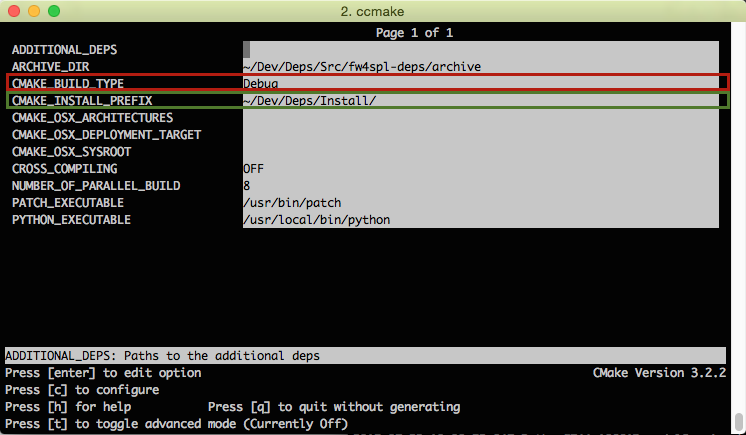
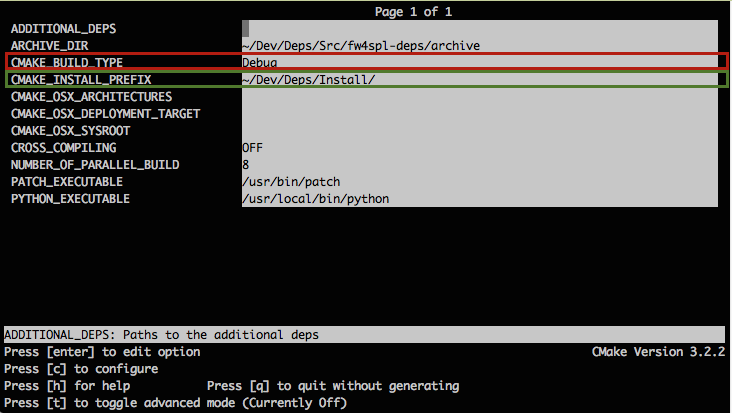
Updated Linux installation doc, also cropped screenshots
--HG--
branch : fw4spl_0.10.2

diff --git a/Installation/src/LinuxInstall.rst b/Installation/src/LinuxInstall.rst
@@ -6,123 +6,310 @@ Prerequisites for Linux users
 
 If not already installed:
 
-1. Install `Mercurial <http://mercurial.selenic.com/wiki/>`_  (apt-get install mercurial)
+1. Install `git <https://git-scm.com/>`_
 
-2. Optionally you can install `TortoiseHg <http://tortoisehg.bitbucket.org/>`_ 
+3. Install `gcc <https://gcc.gnu.org/>`_ The minimal version required is 4.8 or `clang <http://clang.llvm.org/>`_ The minimal version required is 3.5
 
-3. Install `gcc <https://gcc.gnu.org/>`_ (apt-get install gcc)
+4. Install `Python 2.7 <https://www.python.org/downloads/>`_
 
-4. Install `clang <http://clang.llvm.org/>`_ (apt-get install clang)
+5. Install `CMake <http://www.cmake.org/download/>`_ The minimal version required is 3.0
 
-4. Install `Python 2.7 <https://www.python.org/downloads/>`_ (apt-get install python2.7)
+6. Install `Ninja <https://martine.github.io/ninja/>`_
 
-5. Install `CMake <http://www.cmake.org/download/>`_ (apt-get install cmake)
+Depending on which linux distribution you use, for example on Debian you can do:
 
-6. Install `ninja <https://github.com/martine/ninja>`_ (apt-get install ninja-build)
+.. code:: bash
 
-
+    $ apt-get install build-essential ninja-build python2.7 git
 
 Qt is an external library used in FW4SPL. For the successful compilation of Qt with FW4SPL, please see the following requirements:
 
 - http://wiki.qt.io/Building_Qt_5_from_Git
 
 
-
 FW4SPL installation
 -------------------------
 
-FW4SPL works with data separation for source, build and install data. 
+FW4SPL works with data separation for source, build and install data.
 To prepare the development environment:
 
-- Create a development folder (Dev)
+- Create your "Dev" directory
 
-- Create a build folder (Dev\\Build)
+.. code:: bash
 
-- Create a source folder (Dev\\Src)
+    $ mkdir Dev
 
-- Create a install folder (Dev\\Install)
+- Create into "Dev" the source, build and install directories
+
+.. code:: bash
+
+    $ mkdir Dev/Src Dev/Build Dev/Install
+
+- Create sub-folders to separate Debug and Release compilations
+
+.. code:: bash
+
+    $ mkdir Dev/Build/Debug Dev/Build/Release Dev/Install/Debug Dev/Install/Release
 
 To prepare the third party environment:
 
-- Create a third party folder (BinPkgs)
+- Create a third party folder (Deps)
 
-- Create a build folder (BinPkgs\\Build)
+.. code:: bash
 
-- Create a source folder (BinPkgs\\Src)
+    $ mkdir Deps
 
-- Create a install folder (BinPkgs\\Install)
+- Create into "Deps" the source, build and install directories
 
-.. .. image:: Directories.png
-..   :scale: 50 %
+.. code:: bash
+
+    $ mkdir Deps/Src Deps/Build Deps/Install
+
+- Create sub-folders to separate Debug and Release compilations
+
+.. code:: bash
+
+    $ mkdir Deps/Build/Debug Deps/Build/Release Deps/Install/Debug Deps/Install/Release
+
+
+.. _build_tools:
+
+Build tools
+~~~~~~~~~~~~
+
+FW4SPL is a CMake project. That means, for each build target there is a CMakeLists that provides build parameters.
+To configure you project you can use the ``cmake`` command from the build folder with the sources as arguments:
+
+.. code:: bash
+
+    $ cd Dev/Build/Debug
+    $ ccmake ../../Src/fw4spl
+
+if you want to use **Ninja** as build to tools, use the option ``-G Ninja``, as following:
+
+.. code:: bash
+
+    $ ccmake -G Ninja ../../Src/fw4spl
+
+It is the same process for Deps and FW4SPL sources. It is recommended to use make to compile the deps.
 
 Dependencies
-~~~~~~~~~~~~~~~~~
+~~~~~~~~~~~~~~
 
-For the third party libraries the three following repositories have to be `cloned <http://git-scm.com/book/en/v2/Git-Basics-Getting-a-Git-Repository#Cloning-an-Existing-Repository>`_ in the (BinPkgs) source folder:
+- Clone the repository into your source directory of Deps
 
-- `fw4spl-deps <https://github.com/fw4spl-org/fw4spl-deps.git>`_
+.. code:: bash
 
-- `fw4spl-ar-deps <https://github.com/fw4spl-org/fw4spl-ar-deps.git>`_
+    $ cd Deps/Src
+    $ git clone https://github.com/fw4spl-org/fw4spl-deps.git fw4spl-deps
 
-- `fw4spl-ext-deps <https://github.com/fw4spl-org/fw4spl-ext-deps.git>`_
+- Get into fw4spl-deps folder and update to the latest stable version
 
-Update the cloned repositories to the used version. Call the cmake-gui or change the cmake arguments with the console from the BinPkgs build folder location. 
-Choose jom or nmake as build tool for cmake. The following arguments have to be changed:
+.. code:: bash
+    $ cd fw4spl-deps
+    $ git checkout fw4spl_0.10.2.1
 
-- *ADDITIONAL_PROJECTS*: set the source location of fw4spl-ar-deps and fw4spl-ext-deps
+- Get into your Build directory (Debug or Release) : here an example if you want to compile in DEBUG
+
+.. code:: bash
+
+    $ cd Deps/Build/Debug
+
+- Call ccmake and point to the sources
+
+.. code:: bash
+
+    $ ccmake ../../Src/fw4spl-deps
+
+
+To build the dependencies, you must configure the project with cmake into the Build folder
+
+.. code:: bash
+
+    $ cd ~/Dev/Deps/Build
+    $ cmake ../Src/fw4spl-deps -DCMAKE_INSTALL_PREFIX=../Install -DCMAKE_BUILD_TYPE=Debug
+
+Or open cmake gui editor, see :ref:`build_tools` instructions.
+
+.. code:: bash
+
+    $ ccmake ../Src/fw4spl-deps
+
+Some CMake variables have to be change:
 
 - *CMAKE_INSTALL_PREFIX*: set the install location.
 
-Configure and generate the code. Compile the FW4SPL dependencies with jom or nmake in the console.
+- *CMAKE_BUILD_TYPE*: set the build type 'Debug' or 'Release'
+
+.. image:: ../media/osx_cmake_binpkgs.png
+
+Press configure (*[c]*) and generate (*[g]*) makefiles.
+
+- Compile the FW4SPL dependencies with make in the console, it will automaticaly download, build and install each dependencies.
+
+.. code:: bash
+
+    $ make all
+
+.. warning::
+    Do NOT use ninja to compile the dependencies, it cause conflict with qt compilation.
+
 
 Source
 ~~~~~~~~~~~~~~~~~
 
-For the FW4SPL source code the three following repositories have to be `cloned <http://git-scm.com/book/en/v2/Git-Basics-Getting-a-Git-Repository#Cloning-an-Existing-Repository>`_ in the (Dev) source folder:
+- Clone fw4spl repository into your source directory
 
-- `fw4spl <https://github.com/fw4spl-org/fw4spl.git>`_
+.. code:: bash
 
-- `fw4spl-ar <https://github.com/fw4spl-org/fw4spl-ar.git>`_
+    $ cd Dev/Src
+    $ git clone https://github.com/fw4spl-org/fw4spl.git fw4spl
 
-- `fw4spl-ext <https://github.com/fw4spl-org/fw4spl-ext.git>`_
+- Get into fw4spl folder and update to the latest stable version
 
-Update the cloned repositories to the used version. Make sure that cmake is set as environment variable. Call the cmake-gui or change the cmake arguments with the console from the Dev build folder location. 
-Choose jom or nmake as build tool for cmake. The following arguments have to be changed:
+.. code:: bash
 
-- *ADDITIONAL_PROJECTS*: set the source location of fw4spl-ar and fw4spl-ext
+    $ cd fw4spl
+    $ git checkout fw4spl_0.10.2.1
 
-- *CMAKE_INSTALL_PREFIX*: set the install location.
+- Get into your Build directory (Debug or Release) : here an example if you want to compile in DEBUG
 
-- *EXTERNAL_LIBRARIES*: set the install path of the third part libraries.
+.. code:: bash
 
-Make sure the arguments concerning the compiler (advanced arguments) point to the preferred compiler.
-Configure and generate the code. Compile the FW4SPL source code with jom or nmake in the console . 
-To develop applications with FW4SPL the source code can be imported and compiled with the preferred development environment. 
+    $ cd Dev/Build/Debug
 
+- Call *ccmake* and point to the sources
+
+To use make :
+
+.. code:: bash
+    $ ccmake ../../Src/fw4spl
+
+To use ninja :
+
+.. code:: bash
+    $ ccmake -G Ninja ../../Src/fw4spl
+
+- Change the following cmake arguments
+
+    - *CMAKE_INSTALL_PREFIX*: set the install location (Dev/Install/Debug or Release)
+
+    - *CMAKE_BUILD_TYPE*: set to DEBUG or RELEASE.
+
+    - *EXTERNAL_LIBRARIES*: set the install path of the third part libraries.(ex : Deps/Install/Debug)
+
+    - *PROJECT_TO_BUILD*: set the list of the projects you want to build (ex: VRRender, Tuto01Basic ...), each project should be separated by ";".
+
+.. note::
+    - If PROJECT_TO_BUILD is empty, all application will be compiled
+    - If PROJECT_TO_INSTALL is empty, no application will be installed
+
+.. image:: ../media/osx_cmake_fw4spl.png
+
+Press configure (**[c]**) and generate (**[g]**) makefiles.
+
+Then, build dependencies with ninja.
+
+.. code:: bash
+
+    $ ninja all
 
 Launch an application
 -------------------------
 
-To work with an specific application or several applications the cmake argument *PROJECTS_TO_BUILD* can be set. 
-After an successful compilation the application can be launched with the launcher program from FW4SPL. 
-Therefore the profile.xml of the application in the build folder has to be passed as argument to the launcher call in the console. (bin/launcher Bundles/MyApplicationAndVersion/profile.xml)
+To build a specific or several applications the CMake argument ``PROJECTS_TO_BUILD`` can be set.
+Use ``;`` so separate each application name.
 
-.. .. image:: launchApp.png
-..   :scale: 50 %
+After an successful compilation the application can be launched with the launcher program from FW4SPL.
+Therefore the profile.xml of the application in the build folder has to be passed as argument to the launcher call in the console.
+
+.. code:: bash
+
+    $ bin/launcher Bundles/MyApplication_Version/profile.xml
+
+Example:
+
+.. code:: bash
+
+    $ cd /Dev/Build
+    $ bin/launcher Bundles/VRRender_0-9/profile.xml
+
+Extensions
+----------
+
+**fw4spl** has two extension repositories:
+
+-  `fw4spl-ext <https://github.com/fw4spl-org/fw4spl-ext/>`_: contains additional functionalities and proofs of concept
+- `fw4spl-ar <https://github.com/fw4spl-org/fw4spl-ar/>`_: contains functionalities for augmented reality (video tracking, calibration)
+
+Dependencies
+~~~~~~~~~~~~
+
+If you want to use this extension, you need to clone the deps repositories:
+
+- `fw4spl-ext-deps <https://github.com/fw4spl-org/fw4spl-ext-deps.git>`_: contains the scripts to compile the external libraries used by fw4spl-ext
+
+.. code:: bash
+
+    $ cd ~/Dev/Deps/Src
+    $ git clone https://github.com/fw4spl-org/fw4spl-ext-deps.git fw4spl-ext-deps
+    $ cd fw4spl-ext-deps
+    $ git checkout fw4spl_0.10.2.1
+
+- `fw4spl-ar-deps <https://github.com/fw4spl-org/fw4spl-ar-deps.git>`_: contains the scripts to compile the external libraries used by fw4spl-ar
+
+.. code:: bash
+
+    $ cd ~/Dev/Deps/Src
+    $ git clone https://github.com/fw4spl-org/fw4spl-ar-deps.git fw4spl-ar-deps
+    $ cd fw4spl-ar-deps
+    $ git checkout fw4spl_0.10.2.1
+
+You must re-edit cmake configuration to add this repository:
+
+.. code:: bash
+
+    $ cd ~/Dev/Deps/Build
+    $ ccmake .
+
+Modify *ADDITIONAL_DEPS*: set the source location of fw4spl-ar-deps and fw4spl-ext-deps separated by ';'
+
+.. code:: bash
+
+    ~/Dev/Deps/Src/fw4spl-ext-deps/;~/Dev/Deps/Src/fw4spl-ar-deps/
+
+Source
+~~~~~~
+
+If you want to use fw4spl extension, you need this repositories:
+
+- `fw4spl-ext <https://github.com/fw4spl-org/fw4spl-ext.git>`_: extension of fw4spl repository, contains additional functionalities and proofs of concept
+
+.. code:: bash
+
+    $ cd Dev/Src
+    $ git clone https://github.com/fw4spl-org/fw4spl-ext.git fw4spl-ext
+    $ cd fw4spl-ext
+    $ git checkout fw4spl_0.10.2.1
+
+- `fw4spl-ar <https://github.com/fw4spl-org/fw4spl-ar.git>`_: another extension of fw4spl, contains functionalities for augmented reality (video tracking)
+
+.. code:: bash
+
+    $ cd ../../Build
+    $ ccmake .
+
+Modify *ADDITIONAL_PROJECTS*: set the source location of fw4spl-ar and fw4spl-ext separated by ';'
+
+.. code:: bash
+
+    ~/Dev/Src/fw4spl-ext/;~/Dev/Src/fw4spl-ar/
 
 Recommended software
 -------------------------
 
 The following programs may be helpful for your developments:
 
-- Install `Eclipse CDT <https://eclipse.org/cdt/>`_. Eclipse is a multi-OS Integrated Development Environment (IDE) for computer programming. 
+- `Eclipse CDT <https://eclipse.org/cdt/>`_
 
-Release
--------------------------
-
-To generate the projects in release, the following instruction has to be added:
-
-
-- Change CMake argument CMAKE_BUILD_TYPE to Release
-
-- Reference the EXTERNAL_LIBRARIES to the install folder of third part libraries compiled in release mode (for compiling the FW4SPL projects)
+- `QtCreator <https://www.qt.io/download-open-source/#section-2>`_
